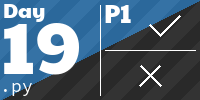
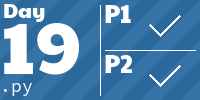
[2024/19] p2 solved

diff --git a/2024/19/script.py b/2024/19/script.py
@@ -3,20 +3,16 @@ from functools import cache
 
 
 @cache
-def validate(design: str, patterns: frozenset[str]) -> bool:
-    if design in patterns:
-        return True
-    else:
-        # try all splits
-        valid = False
-        for i in range(1, len(design)):
-            if aoc.args.verbose:
-                print(f" trying {design[:i]}-{design[i:]}")
-            valid = validate(design[:i], patterns) and validate(design[i:], patterns)
-            if valid:
-                return True
+def validate(design: str, patterns: frozenset[str]) -> int:
+    # if there's nothing left of the design after recursively slicing patterns from it,
+    # we found a valid arrangement. return 1 to count it in our sum of all arrangements
+    if not design:
+        return 1
 
-    return False
+    # try removing all patterns from the start of the design,
+    # then recursively do that for each remaining segment of the design
+    return sum(validate(design[len(pattern):], patterns)
+               for pattern in patterns if design[:len(pattern)] == pattern)
 
 
 def main():
@@ -25,19 +21,23 @@ def main():
     designs = designs.splitlines()
 
     valid = 0
+    total_arrangements = 0
     for design in designs:
-        if validate(design, patterns):
+        arrangements = validate(design, patterns)
+        if arrangements:
             if aoc.args.verbose or aoc.args.progress:
-                print(f"1 - {design}")
+                print(f"1 - {design} - {arrangements}")
             valid += 1
+            total_arrangements += arrangements
         else:
             if aoc.args.verbose or aoc.args.progress:
                 print(f"0 - {design}")
 
-    if aoc.args.progress:
-        print(f"cache: {validate.cache_info().hits} hits, {validate.cache_info().misses} misses")
+    if aoc.args.verbose or aoc.args.progress:
+        print(f"validate() {validate.cache_info()}")
 
     print(f"p1: {valid}")
+    print(f"p2: {total_arrangements}")
 
 
 if __name__ == "__main__":

diff --git a/README.md b/README.md
@@ -3,10 +3,10 @@ My solutions to the yearly Advents of Code
 
 <!-- AOC TILES BEGIN -->
 <h1 align="center">
-  Advent of Code - 196/488 ⭐
+  Advent of Code - 197/488 ⭐
 </h1>
 <h1 align="center">
-  2024 - 35 ⭐ - Python
+  2024 - 36 ⭐ - Python
 </h1>
 <a href="2024/1/script.py">
   <img src=".aoc_tiles/tiles/2024/01.png" width="161px">
